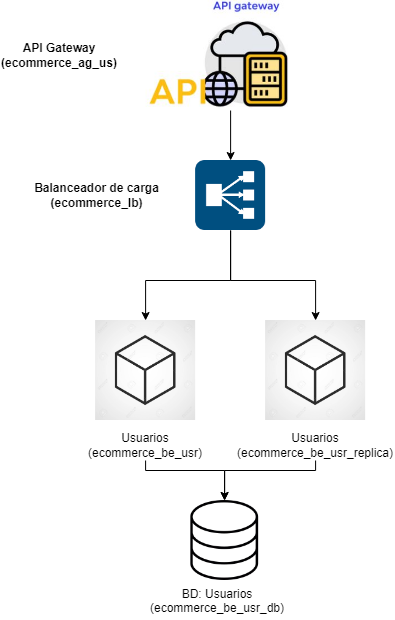
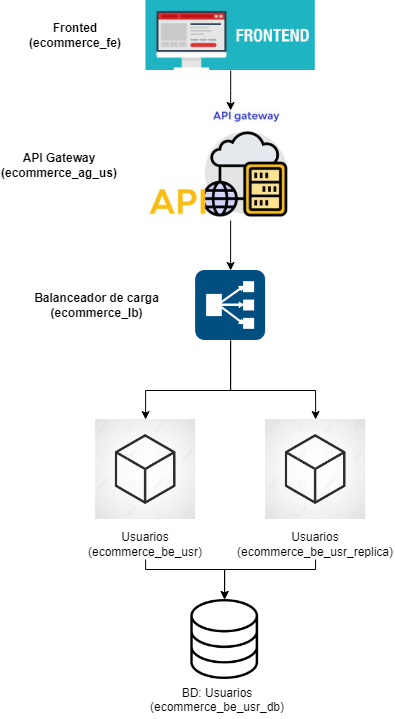
Update
Update

diff --git a/project/delivery_2/e-commerce/README.md b/project/delivery_2/e-commerce/README.md
@@ -79,3 +79,8 @@ En este apartado del documento, se presenta una breve descripción de cada uno d
   - `Access Control`: solo microservicios autorizados pueden conectarse.
 
 ---
+Al analizar el flujo arquitectónico elegido en la primera entrega, se observa que el sistema carece de un mecanismo de control de frecuencia, es decir, no existen límites definidos para el uso de los recursos o el número de solicitudes permitidas en un periodo de tiempo. Esta ausencia deja al sistema vulnerable a ataques de Denegación de Servicio (DoS), donde un atacante podría saturar los servicios mediante solicitudes excesivas, comprometiendo tanto la disponibilidad como la estabilidad del sistema. 
+
+Por lo tanto, se simula un ataque de Denegación de Servicio (DoS) sobre el flujo seleccionado del sistema. En este escenario, se modela una situación en la que el sistema recibe N solicitudes concurrentes, sin contar con mecanismos de protección. Cada solicitud sigue una ruta aleatoria desde el frontend hasta la base de datos, exponiendo así las debilidades de la arquitectura ante cargas excesivas y mostrando la necesidad de implementar tácticas de seguridad.
+
+
